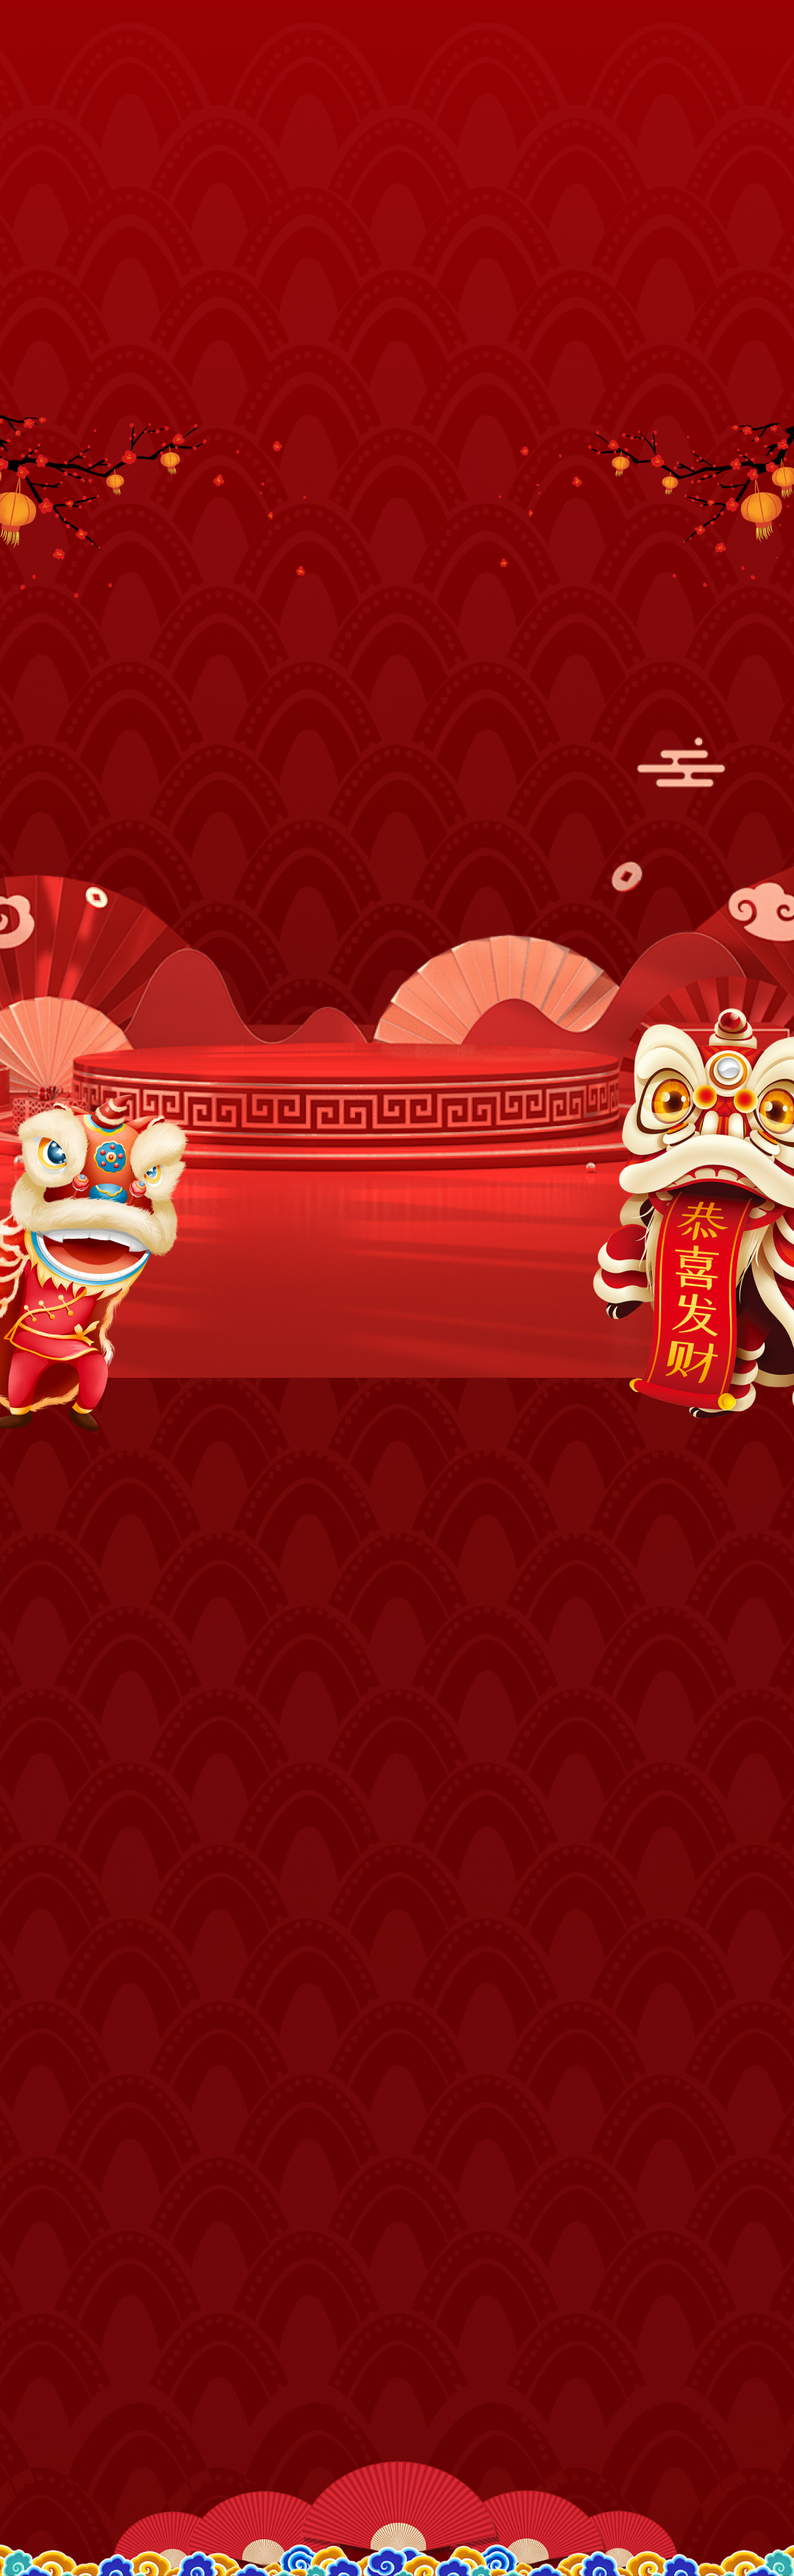
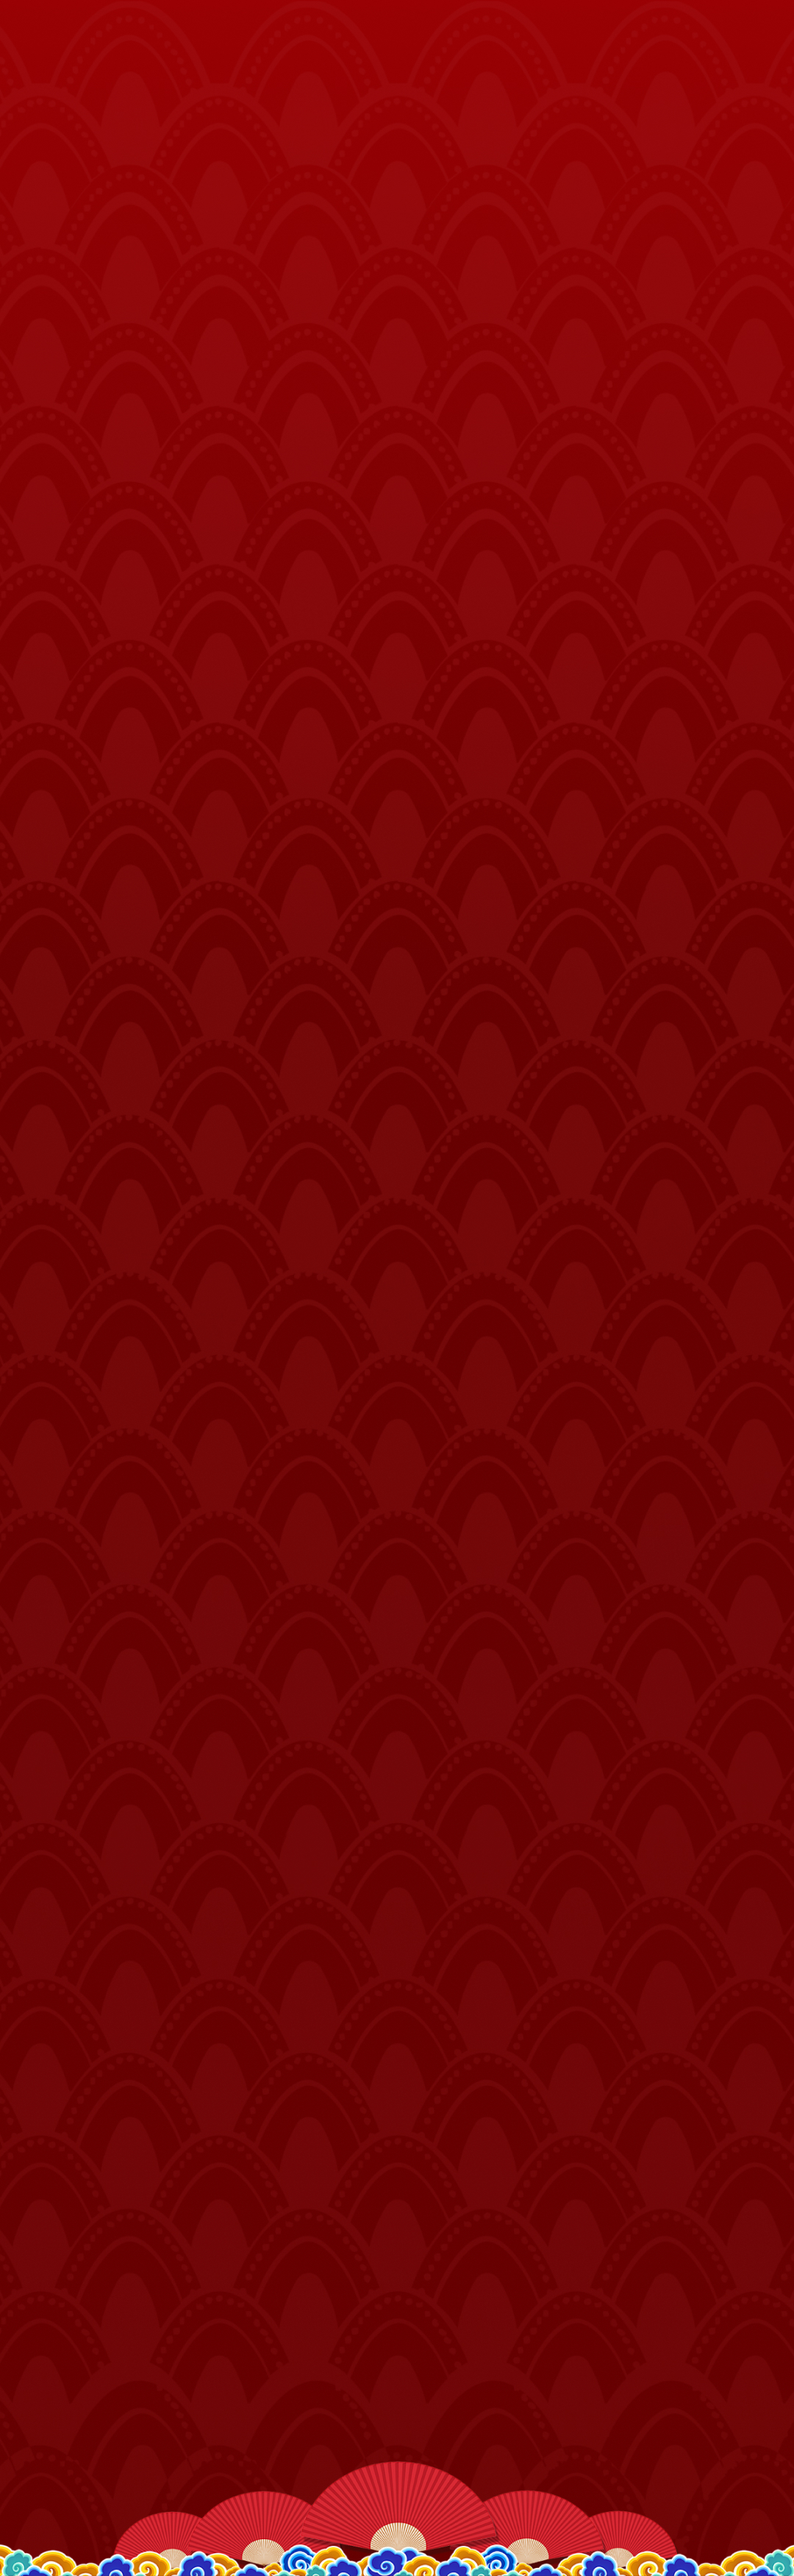
feat: [xf h5] Add new cny-spinwheel promo

diff --git a/xf-static-h5/src/components/hotpromo/cnySpinWheel/CnySpinWheel.vue b/xf-static-h5/src/components/hotpromo/cnySpinWheel/CnySpinWheel.vue
@@ -1,12 +1,13 @@
 <template>
   <div class="container">
+    <img src="./../../../assets/images/promotion/hotpromo/cny-spinwheel/banner.png" />
     <div class="spin-wheel-container">
       <div :class="`draw-btn click-pointer ${remainingDraws <= 0 ? 'disabled' : ''}`" @click="spinWheel">
         <img src="./../../../assets/images/promotion/hotpromo/cny-spinwheel/click-spin-btn.png" />
       </div>
-      <!-- <div class="wheel-stage">
+      <div class="wheel-stage">
         <img src="./../../../assets/images/promotion/hotpromo/cny-spinwheel/spin-wheel-stage.png" />
-      </div> -->
+      </div>
       <div class="cny-hat">
         <img src="./../../../assets/images/promotion/hotpromo/cny-spinwheel/spin-wheel-cny-hat.png" />
       </div>
@@ -34,6 +35,17 @@
 
     <div class="promo-info-container">
       <div class="promo-info-banner">
+        <div class="promo-info-header">中奖名单</div>
+        <div class="promo-info-content">
+          <div class="winners-list">
+            <div class="winners-list-item" v-for="(item, index) in winnersList" :key="index">
+              <div class="winner-username">恭喜 {{ item.username }}</div>
+              <div class="winner-prize">抽中 {{ item.prize }} 礼金</div>
+            </div>
+          </div>
+        </div>
+      </div>
+      <div class="promo-info-banner">
         <div class="promo-info-header">活动说明</div>
         <div class="promo-info-content">
           <div class="event-info-item">
@@ -47,17 +59,6 @@
           <div class="event-info-item">
             <div class="event-info-title">抽奖时间：</div>
             <div class="event-info-desc">以官网通知为准</div>
-          </div>
-        </div>
-      </div>
-      <div class="promo-info-banner">
-        <div class="promo-info-header">中奖名单</div>
-        <div class="promo-info-content">
-          <div class="winners-list">
-            <div class="winners-list-item" v-for="(item, index) in winnersList" :key="index">
-              <div class="winner-username">恭喜 {{ item.username }}</div>
-              <div class="winner-prize">抽中 {{ item.prize }} 礼金</div>
-            </div>
           </div>
         </div>
       </div>
@@ -80,7 +81,6 @@
 </template>
 <script setup>
 import { ref, onMounted } from "vue";
-// import { ElMessage } from "element-plus";
 import { eventapi } from "src/boot/axios";
 
 // spin wheel constants
@@ -88,6 +88,7 @@ const TOTAL_ITEMS = 8;
 const DEFAUL_SPEED = 1;
 const MAX_SPEED = 4;
 const FULL_DEGREE = 360;
+const SPIN_WHEEL_PRIZES = [8, 1888, 18, 188, 88, 588, 58, 888];
 
 // spin wheel element refs
 const spinBoardRef = ref();
@@ -97,58 +98,9 @@ const drawBtnRef = ref();
 const spinButtonDisable = ref(false);
 const degreesToStopAt = ref([]);
 const showPrizePopup = ref(false);
-const prizePopupBonusAmt = ref(10000);
-const remainingDraws = ref(5);
-const winnersList = ref([
-  {
-    username: "abc*********",
-    prize: "五等奖：288元"
-  },
-  {
-    username: "def*********",
-    prize: "五等奖：388元"
-  },
-  {
-    username: "abc*********",
-    prize: "五等奖：288元"
-  },
-  {
-    username: "def*********",
-    prize: "五等奖：388元"
-  },
-  {
-    username: "abc*********",
-    prize: "五等奖：288元"
-  },
-  {
-    username: "def*********",
-    prize: "五等奖：388元"
-  },
-  {
-    username: "abc*********",
-    prize: "五等奖：288元"
-  },
-  {
-    username: "def*********",
-    prize: "五等奖：388元"
-  },
-  {
-    username: "abc*********",
-    prize: "五等奖：288元"
-  },
-  {
-    username: "def*********",
-    prize: "五等奖：388元"
-  },
-  {
-    username: "abc*********",
-    prize: "五等奖：288元"
-  },
-  {
-    username: "def*********",
-    prize: "五等奖：388元"
-  }
-]);
+const prizePopupBonusAmt = ref();
+const remainingDraws = ref();
+const winnersList = ref([]);
 
 let finalDegree = 0;
 let speed = 1;
@@ -175,6 +127,19 @@ const spin = (prizeIndex, stopCallback) => {
   // 5s + api return
   stopSpin(prizeIndex, stopCallback);
 };
+
+const getRecords = () => {
+  eventapi
+    .get("/vipWheel/records")
+    .then((res) => {
+      if (res.code == 0) {
+        winnersList.value = res.data;
+      }
+    })
+    .catch((err) => {
+      console.log('here', err)
+    });
+}
 
 const stopSpin = (prizeIndex, stopCallback) => {
   // call api
@@ -235,56 +200,64 @@ const spinWheel = () => {
   }
 
   if (remainingDraws.value <= 0) {
-    // ElMessage.error("剩余抽奖次数：0");
+    $q.notify({
+      color: "negative",
+      position: "top",
+      message: "剩余抽奖次数：0",
+      icon: "report_problem"
+    });
     return;
   }
 
   eventapi
-    .get("/receiveLuckydrawBonus")
-    .then(() => {
-      if (data.code == 0) {
-        spin(data.data.index, () => {
+    .post("/vipWheel/spin")
+    .then((res) => {
+      if (res.code == 0) {
+        const prizeIndex = SPIN_WHEEL_PRIZES.findIndex((prize) => prize === res.data.bonus);
+
+        spin(prizeIndex, () => {
           showPrizePopup.value = true;
-          prizePopupBonusAmt.value = data.data.bonus;
-          remainingDraws.value = data.data.remaining;
+          prizePopupBonusAmt.value = res.data.bonus;
+          remainingDraws.value = res.data.availableSpin;
         });
-      } else {
-        error(data);
       }
     })
-    .catch(() => {
-      const data = {
-        data: {
-          index: 3,
-          bonus: 500000,
-          remaining: 5
-        }
-      };
-      spin(data.data.index, () => {
-        showPrizePopup.value = true;
-        prizePopupBonusAmt.value = data.data.bonus;
-        remainingDraws.value = data.data.remaining;
-      });
+    .catch((err) => {
+      console.log(err)
     });
 };
+
+const initSpinWheel = () => {
+  eventapi
+    .get("/vipWheel/init")
+    .then((res) => {
+      if (res.code == 0) {
+        remainingDraws.value = res.data.availableSpin;
+      }
+    })
+
+  getRecords();
+}
 
 onMounted(() => {
   // calc no of spin wheel items and potential stops
   for (var i = 0; i < TOTAL_ITEMS; i++) {
     var the_degree = (FULL_DEGREE / TOTAL_ITEMS) * i * -1;
-    degreesToStopAt.value.push({ degree: the_degree });
+    degreesToStopAt.value.push({ degree: the_degree, prize: SPIN_WHEEL_PRIZES[i] });
   }
 
   spinBoardRef.value = document.getElementById("spin-wheel-bg");
   spinNumRef.value = document.getElementById("spin-wheel-number");
   drawBtnRef.value = document.querySelector(".draw-btn");
+
+  initSpinWheel();
 });
 </script>
 
 <style lang="scss">
 .spin-wheel-container {
   position: relative;
-  margin: 22px 0px 55px;
+  margin: 55px 0px;
   text-align: center;
 }
 
@@ -383,11 +356,11 @@ onMounted(() => {
 }
 
 .wheel-stage {
-  width: 475px;
+  width: 100%;
   height: auto;
   z-index: 20;
   position: absolute;
-  top: calc(50%);
+  bottom: 0px;
   left: 50%;
   transform: translate(-50%, 50%);
 
@@ -417,6 +390,8 @@ onMounted(() => {
 .spin-wheel-board {
   position: relative;
   z-index: 20;
+  background: url("./../../../assets/images/promotion/hotpromo/cny-spinwheel/tree-branches.png") no-repeat top center;
+  background-size: contain;
 }
 
 ::-webkit-scrollbar {
@@ -510,9 +485,11 @@ onMounted(() => {
   .remaining-draw-text {
     color: #e6d796;
     font-size: 25px;
-    margin: 10px auto;
+    margin: 10px auto 40px;
     text-align: center;
     width: 300px;
+    position: relative;
+    z-index: 23;
   }
 }
 
@@ -523,6 +500,8 @@ onMounted(() => {
   align-items: center;
   gap: 20px;
   padding: 20px 0px 60px;
+  margin-top: -50px;
+  margin-bottom: 70px;
 
   .promo-info-banner {
     background: url("./../../../assets/images/promotion/hotpromo/cny-spinwheel/promo-info-banner.png");
@@ -535,6 +514,7 @@ onMounted(() => {
     flex-direction: column;
     justify-content: flex-end;
     padding: 20px;
+    z-index: 23;
   }
 
   .promo-info-header {

diff --git a/xf-static-h5/src/pages/PromoPage.vue b/xf-static-h5/src/pages/PromoPage.vue
@@ -69,7 +69,7 @@
                 />
               </div>
               <div class="inner"
-                :class="selectedPromo.promoCode === 'cny-hongbaoyu' && 'cny2024'">
+                :class="isSpecialPromo ? 'special-promo' : ''">
                 <div v-if="selectedPromo.hasPromo">
                   <HotPromotion :list="selectedPromo" />
                 </div>
@@ -215,7 +215,7 @@ export default defineComponent({
           })
     }
     const showPromoDetails = (promo) => {
-      if (promo.promoCode === "cny-hongbaoyu") {
+      if (promo.promoCode === "cny-hongbaoyu" || promo.promoCode === "cny-spinwheel") {
         isSpecialPromo.value = true
       } else {
         isSpecialPromo.value = false
@@ -620,7 +620,7 @@ export default defineComponent({
         gap: 20px;
         font-size: 12px;
 
-        &.cny2024 {
+        &.special-promo {
           width: 100%;
           margin:0 auto;
         }
